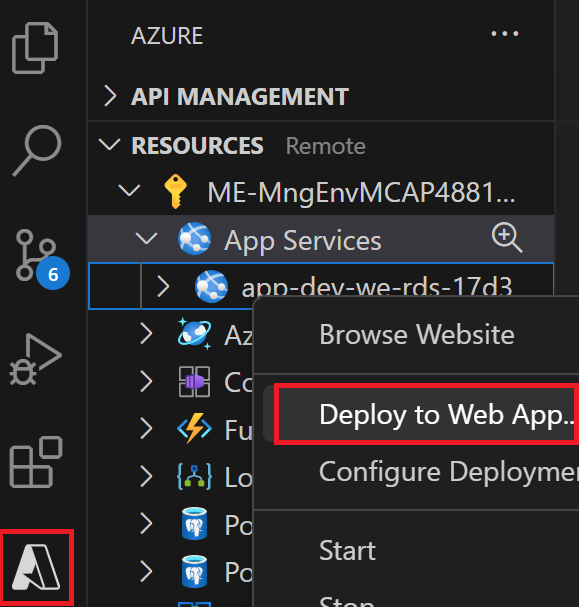
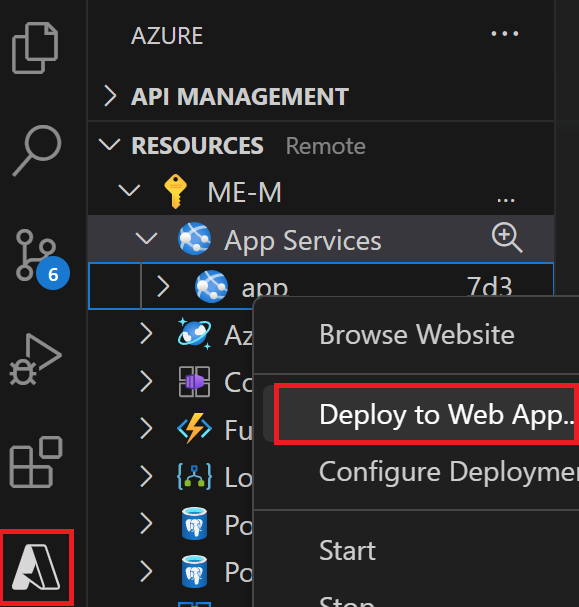
Docs : Azure Monitor / Governance + Proof Read
* docs : spell check

* Docs : TODOs fixed
+ Az Func History as vscode task

* Docs : updated benchmark

* Docs : CosmosDb -> Cosmos DB

* Docs : Cosmos DB -> Azure Cosmos DB

* Docs : api -> API

* Docs : obfuscating image

* docs : benchmark screenshot change

* docs : review Redis OSS and Azure Cache for Redis

* docs : benchmark during 5 minutes

Changed region(s): [[0.4663, 0.2965, 0.8705, 0.3558], [0.4974, 0.4448, 0.8083, 0.5041]]

diff --git a/docs/workshop.md b/docs/workshop.md
@@ -32,7 +32,7 @@ Before starting this workshop, be sure to have:
 - Create a [fork][Repo-fork] of the repository from the **main** branch to help you keep track of your changes
 - To run the different labs, you have 2 options: 
     - Use a devcontainer locally 
-    - Use a Github Codespace
+    - Use a GitHub Codespace
     
 ### Use your own local environment 
 
@@ -52,11 +52,14 @@ If you are not prompted by Visual Studio Code, you can open the command palette 
 
 <div class="tip" data-title="Tips">
 
-> To focus on the main purspose of the lab, we encourage the usage of devcontainers/codespace as they abstract the dev environment configuration, and avoid potential local dependencies conflict.
-> You could decide to run everything without relying on a devcontainer : To do so, make sure you install all the prerequisites you could find in the `.devcontainer` folder.  
+> To focus on the main purpose of the lab, we encourage the usage of devcontainers/codespace as they abstract the dev environment configuration, and avoid potential local dependencies conflict.
+> You could decide to run everything without relying on a devcontainer : To do so, make sure you install all the prerequisites you could find in the `.devcontainer` folder.
 </div>
 
 ### Using a pre-configured GitHub Codespace 
+
+To use a Github Codespace, you will need : 
+- [A GitHub Account][Github-account] (Free or Enterprise)
 
 Github Codespace offers the ability to run a complete dev environment (Visual Studio Code, Extensions, Tools, Secure port forwarding etc.) on a dedicated virtual machine. 
 The configuration for the environment is defined in the `.devcontainer` folder, making sure everyone gets to develop and practice on identical environments : No more conflict on dependencies or missing tools ! 
@@ -119,7 +122,7 @@ az provider register --namespace 'Microsoft.OperationalInsights'
 az provider register --namespace 'Microsoft.Cache'
 # API Management
 az provider register --namespace 'Microsoft.ApiManagement'
-# Azure CosmosDb 
+# Azure Cosmos DB  
 az provider register --namespace 'Microsoft.DocumentDB'
 ```
 
@@ -127,7 +130,7 @@ az provider register --namespace 'Microsoft.DocumentDB'
 
 <div class="task" data-title="Task">
 
-> You will find the instructions and expected configurations for each Lab step in these yellow "Task" boxes.
+> You will find the instructions and expected configurations for each Lab step in these yellow **Task** boxes.
 > Inputs and parameters to select will be defined, all the rest can remain as default as it has no impact on the scenario.
 
 </div>
@@ -174,7 +177,7 @@ While you are deploying the infrastructure of the labs, let's discover it togeth
 
 The architecture is composed of the following elements:
 - An Azure Static Web App that will be used to display the data from the API
-- An App Service that will host an API and store the data in a Cosmos DB database
+- An App Service that will host an API and store the data in a Azure Cosmos DB
 - An APIM which will be used as a facade for the APIs
 - An Azure Cache for Redis that will be used to cache the data of the API
 - A first Azure Function that will be triggered by an event of the Azure Cache for Redis to refresh the cache when the data expires
@@ -185,11 +188,11 @@ You will discover all these elements during this Hands On Lab.
 
 ## Seed the database
 
-In this Hands On Lab, you will use a Cosmos DB database to store and retrieve your data. To save time, you will seed it with some data.
+In this Hands On Lab, you will use a Azure Cosmos DB to store and retrieve your data. To save time, you will seed it with some data.
 
 To do this, download the [zip file][database-seed-zip] that contains the data to seed your database, then unzip it and you will find a `products.json` file.
 
-Go to your resource group, search the Cosmos DB account, select it and in the left menu, click on **Data Explorer**. Then on the database called `catalogdb` and click on the `products` container and select `Items` like below:
+Go to your resource group, search the Azure Cosmos DB account, select it and in the left menu, click on **Data Explorer**. Then on the database called `catalogdb` and click on the `products` container and select `Items` like below:
 
 ![Cosmos DB Data Explorer](./assets/cosmos-db-data-explorer.png)
 
@@ -249,7 +252,6 @@ It will allow you to:
 ## Redis basics 
 
 To be able to use Azure Cache for Redis, you need to understand the basics of Redis. Redis is an open source, in-memory data structure store, used as a database, cache, and message broker. It supports data structures such as strings, hashes, lists, sets, sorted sets with range queries, bitmaps, hyperloglogs, geospatial indexes with radius queries and streams.
-<!-- TODO: Add context on Redis OSS, Azure Cache for Redis, Azure Cache for Redis Enterprise -->
 
 <div class="tip" data-title="Tips">
 
@@ -259,7 +261,12 @@ To be able to use Azure Cache for Redis, you need to understand the basics of Re
 
 </div>
 
-<!-- TODO : Explain how to interact with Redis and how it works concretely -->
+These structures are available with any of the pricing tiers available for an Azure Cache for Redis:
+- **Basic**: An OSS Redis cache running on a single VM. This tier has no service-level agreement (SLA) and is ideal for development/test and noncritical workloads.
+- **Standard**: An OSS Redis cache running on two VMs in a replicated configuration.
+- **Premium**: High-performance OSS Redis caches. This tier offers higher throughput, lower latency, better availability, and more features. Premium caches are deployed on more powerful VMs compared to the VMs for Basic or Standard caches.
+- **Enterprise**: High-performance caches **powered by Redis Inc.’s Redis Enterprise software**. This tier supports Redis modules including RediSearch, RedisBloom, RedisJSON, and RedisTimeSeries. Also, it offers even higher availability than the Premium tier.
+- **Enterprise Flash**: Cost-effective large caches powered by Redis Inc.’s Redis Enterprise software. This tier extends Redis data storage to nonvolatile memory, which is cheaper than DRAM, on a VM. It reduces the overall per-GB memory cost.
 
 Let's see quickly how to interact with Azure Cache for Redis. Go to your resource group, search the Azure Cache for Redis resource, select it and in the left menu, click on **Overview** and click on the **Console** button:
 
@@ -331,8 +338,6 @@ To summarize, you can use the following basic commands to interact with Redis:
 
 In this lab, you will see how to use Azure Cache for Redis in your API to improve its performance. This API is an ASP.NET Web API written in .NET 7 and you will use the [StackExchange.Redis][stackexchange-redis] NuGet package to interact with Redis. One of the goal of this API is to provide a list of products that you will display in a web application.
 
-<!-- TODO: Check if more context is required -->
-
 <div class="tip" data-title="Tips">
 
 > Redis Cache has a set of different clients to connect to it. For your real world scenario, pick the client that fits your preferred development language as detailed [here][redis-dev-clients] : All of these are compatible with Azure Cache for Redis instances.
@@ -341,22 +346,28 @@ In this lab, you will see how to use Azure Cache for Redis in your API to improv
 
 ## Run the API
 
+<div class="info" data-title="Note">
+
+> This lab relies on two different data store systems : Azure Cosmos DB and Azure Cache for Redis. While Redis queries are faster than the ones sent to a Serverless Azure Cosmos DB instance (mainly thanks to the **In-Memory data storage**), the overall latency difference on end to end API call might not be so clearly noticeable.
+> In average, pure Azure Cache for Redis calls come back under 1 ms, while a Serverless Azure Cosmos DB Instance will respond in a few milliseconds.  
+>
+> Between the performance optimizations at a Serverless Azure Cosmos DB Instance doors, the scenario with a single user calling the API combined with such a small volume of `products` data persisted in Azure Cosmos DB, the end to end API response time discrepancy between Azure Cache for Redis and Cosmos DB  can be reduced.
+>
+> To clearly identify calls' response with or without cache, you'll add an artificial high latency while interacting with Azure Cosmos DB .
+> To do so, you'll find an environment variable in appsettings.json.template named `SIMULATED_DB_LATENCY_IN_SECONDS` that you'll have to fill in : The rest of the application code is ready to take this value into account.
+
+</div>
+
 Open the `src/catalog-api` folder in Visual Studio Code in your active devcontainer or GitHub Codespace.
 
-<!-- TODO : Remove this part and the delay if agreed ! -->
-
-For the purpose of this lab you will have to add a delay for the response of the API to be able to see the difference between the response time with and without the cache. This is because a database like Cosmos Db is able to return the data in a few milliseconds after a few calls so you won't be able to see the difference between the response time with and without the cache after a few retry.
-
-<!-- Check if remove-->
-
-For the moment, the API is only connecting to Azure CosmosDB to retrieve the products list persisted in the `products` container. To have this interaction with CosmosDb work, you will need to configure your catalog-api.
+For the moment, the API is only connecting to Azure Cosmos DB  to retrieve the products list persisted in the `products` container. To have this interaction with Azure Cosmos DB work, you will need to configure your catalog-api.
 
 The configuration file format is provided in `src/catalog-api/appsettings.json.template` and will need to be duplicated in a new file called `src/catalog-api/appsettings.Development.json`. 
 Once duplicated, you will need to fill in the missing values in this new file to configure the app.  
 
 <div class="task" data-title="Task">
 
-> - Set the Cosmos Db connection string in the `appsettings.Development.json` file
+> - Set the Azure Cosmos DBconnection string in the `appsettings.Development.json` file
 > - Set the Redis connection string in the `appsettings.Development.json` file (in preparation for the next lab)
 > - Set `SIMULATED_DB_LATENCY_IN_SECONDS` to `"1"`
 > - Run the API in your devcontainer or using the provided GitHub Codespace.
@@ -375,7 +386,7 @@ cd src/catalog-api
 cp appsettings.json.template appsettings.Development.json
 ``` 
 
-Inside the Azure Portal, go to your resource group, search for the Cosmos DB account, select it and in the left menu, click on **Keys**. Then copy the **Primary Connection String** and replace `"AZURE_COSMOSDB_CONNECTION_STRING"` value in `appsettings.Development.json` :
+Inside the Azure Portal, go to your resource group, search for the Azure Cosmos DBaccount, select it and in the left menu, click on **Keys**. Then copy the **Primary Connection String** and replace `"AZURE_COSMOSDB_CONNECTION_STRING"` value in `appsettings.Development.json` :
 
 ![Cosmos DB Keys](./assets/cosmos-db-keys.png)
 
@@ -383,8 +394,7 @@ Then inside the Azure Portal, go to your resource group, search the Azure Cache 
 
 ![Azure Cache for Redis Keys](./assets/azure-cache-for-redis-keys.png)
 
-<!-- TODO : Check formulation -->
-You can set `SIMULATED_DB_LATENCY_IN_SECONDS` to `"1"` to artificially represent a larger CosmosDB size
+You can set `SIMULATED_DB_LATENCY_IN_SECONDS` to `"1"` to create artificial latency to ease perception over cache/no cache data retrieval response time.
 
 You can now run debug for the catalog-api by selecting **Run and Debug** in the left menu, select `.Net Core Launch (web)` and click the green arrow : 
 
@@ -392,10 +402,10 @@ You can now run debug for the catalog-api by selecting **Run and Debug** in the 
 
 Depending on the environment you are using : 
 - Devcontainer : 
-    - Once the api is running, browse for the url: http://localhost:5076/products and you should see the list of products.
+    - Once the API is running, browse for the url: http://localhost:5076/products and you should see the list of products.
 - Github Codespace : 
-    - Once the api is running, click on the **ports** tab in the bottom part of Visual Studio Code window. You should retrieve the unique domain name generated for the combination of your codespace and the port being forwarded.
-    - Right click on port `5076` and click **Open in Browser**. <!-- TODO: Fix Codespace access issues -->
+    - Once the API is running, click on the **ports** tab in the bottom part of Visual Studio Code window.
+    - Right click on port `5076` and click **Open in Browser**.
     - You can now browse for http://<your-unique-domain-&-port>/products and you should see the list of products.
 
 </details>
@@ -415,7 +425,7 @@ They both use the `IRedisService` interface to interact with the cache and use t
 
 > These Get & Set Async methods have been built specifically for this lab to simplify exception handling and serialization as much as possible in your interaction with Azure Cache for Redis.
 > However, the actual Get and Set queries sent to the Redis Cache reside in the simple methods provided by the StackExchange.Redis package, and that you can see in the `RedisService.cs` class as the extract below : 
-
+> 
 > ```csharp
 > await _database.StringGetAsync(key);
 > ...
@@ -424,9 +434,9 @@ They both use the `IRedisService` interface to interact with the cache and use t
 
 </div>
 
-Now it is time to work with Azure Cache for Redis to retrieve and return the list of products provided by the persistence tier played by CosmosDb in this lab's scenario. 
+Now it is time to work with Azure Cache for Redis to retrieve and return the list of products provided by the persistence tier played by Azure Cosmos DB in this lab's scenario. 
 
-If no product exists in your Azure Cache for Redis Instance, then you will need to retrieve a fresh list of products from your persisting database (CosmosDb) and rehydrate the cache with this fresh data. 
+If no product exists in your Azure Cache for Redis Instance, then you will need to retrieve a fresh list of products from your persisting database (Azure Cosmos DB) and rehydrate the cache with this fresh data. 
 This way, the next call will extract the list of products directly from the cache, improving the overall request performance, as well as freeing up resources for the database to focus on actual data persistence activities.
 
 <div class="task" data-title="Tasks">
@@ -450,7 +460,7 @@ if (cachedProducts != null) {
 }
 ```
 
-If no product is found in the cache, fetch the data from Cosmos DB and store them in the cache before returning them:
+If no product is found in the cache, fetch the data from Azure Cosmos DBand store them in the cache before returning them:
 
 ```csharp
 // Fetch data from Cosmos DB
@@ -495,13 +505,13 @@ Thanks Redis! ;)
 
 Now that you have your API working locally, you will deploy it to Azure. To do this, you will use the Azure App Service provided by the Terraform infrastructure as code applied earlier. This service allows you to host your API in the cloud.
 
-To deploy your API directly from Visual Studio Code, you will use the Visual Studio Code Azure extension.
+To deploy your API directly from Visual Studio Code, you will use the Visual Studio Code Azure extension panel.
 
-Search your App Service in the Visual Studio Code Azure extension and click on the **Deploy to Web App...** button:
+Right click on your App Service in the Visual Studio Code Azure extension panel and select **Deploy to Web App...** :
 
 ![Deploy to Web App](./assets/app-service-deploy-to-web-app.png)
 
-Then, select the `catalog-api` folder and click on the **Deploy** button. Wait a few minutes for the deployment to finish. All the environment variables such as the connection string to Azure Cache for Redis and Cosmos Db was already configured in the Azure App Service for you by the infrastructure as code.
+Then, select the `catalog-api` folder and click on the **Deploy** button. Wait a few minutes for the deployment to finish. All the environment variables such as the connection string to Azure Cache for Redis and Azure Cosmos DBwas already configured in the Azure App Service for you by the infrastructure as code.
 
 When it's done go to your App Service resource on Azure and click on the **Browse** button. Navigate to the `/products` endpoint and you should see the list of products:
 
@@ -540,7 +550,6 @@ Now click on the **Browse** button in the **Overview** of your static web app to
 
 
 [redis-dev-clients]: https://redis.io/docs/clients/
-[api-zip]: https://github.com/microsoft/hands-on-lab-redis/releases/download/latest/catalog-api.zip
 [stackexchange-redis]: https://www.nuget.org/packages/StackExchange.Redis
 
 ---
@@ -902,13 +911,13 @@ To set the `CATALOG_API_URL` environment variable, go to your resource group, se
 ![Apim gateway url](./assets/apim-gateway-url.png)
 
 To debug the Cache Refresh Azure Function in VS Code, you will need to start Azurite (an Azure Storage Account emulator required to debug Azure Functions locally) :  
-1. In VS Code, Press `Ctrl + Shift + P`, then search `Azurite: Start` and select this option : 
+- In VS Code, Press `Ctrl + Shift + P`, then search `Azurite: Start` and select this option : 
 
-![Azurite Start](./assets/azurite-start.png)
+    ![Azurite Start](./assets/azurite-start.png)
 
-1. Then run the Azure Function by clicking on the **Run and Debug** panel and select `Attach to Cache Refresh Function`:
+- Then run the Azure Function by clicking on the **Run and Debug** panel and select `Attach to Cache Refresh Function`:
 
-![Azure Function run](./assets/azure-function-run.png)
+    ![Azure Function run](./assets/azure-function-run.png)
 
 </details>
 
@@ -964,8 +973,8 @@ To do this, there is a variety of tools that you can use to inspect Redis data l
 
 <div class="task" data-title="Task">
 
->  - View some products in the Web App to generate items in the stream. You can alternatively call the `/products/:id` endpoint from `catalog-api` like you did in Lab1.
->  - Locate the stream where `catalog-api` publishes product viewing events. Your hint is the name of the stream.
+>  - View some products in the Web App to generate items in the stream. You can alternatively call the `/products/:id` endpoint from `catalog-api` like you did in Lab 1.
+>  - Locate the stream where `catalog-api` publishes product viewing events, named `productViews`.
 >  - Inspect the items in the Stream using `Redis Console` from the Azure portal.
 >  - View more products in the Web App and make sure new items get added in the stream.
 
@@ -1163,7 +1172,7 @@ func azure functionapp publish <NAME_OF_YOUR_HISTORY_FUNCTION_APP>
 
 In this last part, you will wire the newly deployed `history-func` app to the Web App using the app setting `HISTORY_API`.
 
-This will allow the Web App to communicate with your new History API (`/api/history`) to retrieve and display the current user's browsing history.
+This will allow the Web App to communicate with your new History api (`/api/history`) to retrieve and display the current user's browsing history.
 
 ![View recent browsing history](./assets/webapp-view-browsing-history.png)
 
@@ -1179,7 +1188,7 @@ This will allow the Web App to communicate with your new History API (`/api/hist
 
 To configure the Static Web App to use the new `/api/history` endpoint you will first need to get its full url.
 
-To do that, first head to the `history-func` Function App in the Azure Portal, then select the function `GetBrowsingHistory`.
+To do that, head to the `history-func` Function App in the Azure Portal, then select the function `GetBrowsingHistory`.
 
 ![GetBrowsingHistory in history-func](./assets/history-func-select-http-function.png)
 
@@ -1217,27 +1226,27 @@ Once it gets loaded, click on the UUID of the user on the top right of the page 
 
 # Lab 4 : Azure Cache for Redis Governance 
 
-In this lab you will discover how to retreive metrics and logs from Azure Cache for Redis to monitor the health of the resource and take informed decisions about its sizing.
+In this lab you will discover how to retrieve metrics and logs from Azure Cache for Redis to monitor the health of your instance and take informed decisions about its sizing.
 
 ## Azure Monitor 
 
-To simulate a real world scenario, the first thing to do is to generate some load on the Azure Cache for Redis resource. To be able to do this, you will use the [Redis-Benchmark][redis-benchmark] tool installed in the devcontainer.
+To simulate a real world scenario, the first thing to do is to generate some load on the Azure Cache for Redis resource. To be able to do this, you will use the [RedisLabs/memtier_benchmark][redis-benchmark] tool as a docker image (Docker is already set up in the devcontainer/codespace).
 
-Redis Benchmark is a simple command-line utility designed to simulate running a certain number of queries from a defined set of parallel clients. 
+RedisLabs Memtier_benchmark is a command-line utility designed to load test based on a default or custom load scenario. 
 
-To authenticate to your Azure Cache for Redis resource you will need an access key. Go to the Azure Portal and inside the Azure Cache for Redis resource in the left menu, click on **Access keys** and copy the `Primary` or `Secondary` key. 
+To authenticate to your Azure Cache for Redis resource you will need one of the access keys. Go to the your Azure Cache for Redis resource and select the **Access Keys** panel, then copy the  `Primary` or `Secondary` key. 
 
 Next, to generate some load on the Azure Cache for Redis resource use the following command : 
 
 ```bash
-redis-benchmark -h <YOUR_REDIS_RESOURCE_NAME>.redis.cache.windows.net -p 6379 -a <YOUR REDIS_ACCESS_KEY> -t GET -n 10000000 -d 1024 -c 300 --threads 2 
+docker run --rm redislabs/memtier_benchmark:latest -h <YOUR_REDIS_RESOURCE_NAME>.redis.cache.windows.net -p 6380 -a <YOUR_REDIS_ACCESS_KEY> --tls --tls-skip-verify
 ```
 
-Redis Benchmark will send 10 million `SET` queries of 1KB each from 300 parallel connections. In this lab's use case, the duration of the operation will mainly be influenced by the codespace/dev environment CPU, RAM and network bandwidth resources.
+Redis Benchmark will send a few million queries (SET and GET) each from various parallel client connections. In this lab's use case, the duration of the operation will mainly be influenced by the codespace/dev environment CPU, RAM and network bandwidth resources.
 
-When the benchmark is done, you should see this kind of results :
+When the benchmark is done, you should see the following results table (latency will depend on the benchmark's source location):
 
-![Redi-Benchmark-results](./assets/redis-benchmark-results.png)
+![Redis-Benchmark-results](./assets/redis-benchmark-results.png)
 
 About 5 minutes after the benchmark has successfully ended, open the Azure Portal view on your Azure Cache for Redis resource and open the **Insights** panel to gain deeper knowledge of the resource health : 
 
@@ -1253,7 +1262,7 @@ The Azure Cache for Redis Enterprise SKU also comes with `autoscaling` capabilit
 
 Currently, only the Enterprise SKU support the `autoscaling` feature. However, you can do it manually using the `Premium` SKU, enabling the `cluster` option and taking advantage of Azure Monitor Alerts to respond to increasing usage trends and trigger additional node and shard provisionning. 
 
-## Usage Trend monitoring
+## Usage trend monitoring
 
 Let's create an [alert rule][alert-rule-creation] with Azure Monitor to send an email notification when the CPU average usage of the Azure Cache for Redis resource is above `30%` for more than `1` minute. When the alert is triggered, you will send an email to notify the Ops team that the usage trend on Redis increased.
 
@@ -1261,10 +1270,10 @@ In a real world scenario this alert could be coupled with a request to increase 
 
 <div class="task" data-title="Task">
 
-> - Create a `static alert rule` to trigger when CPU reaches `30%` on `average` during `1` minute
+> - Create a `static alert rule` to trigger when CPU reaches `30%` on `average` for the past `1` minute
 > - Create an [`action group`][action-group-creation] that will be executed by this alert rule 
 > - The `action group` must send an `email` notification to your email address 
-> - Execute a new benchmark of `10 Million` requests to load the Azure Cache for Redis CPU and trigger the alert
+> - Execute the memtier_benchmark utility during `5 minutes` to load the Azure Cache for Redis CPU and trigger the alert
 
 </div>
 
@@ -1299,12 +1308,12 @@ Now is time to finalize the configuration of the alert rule: Giving it a `resour
 
 ![monitor-alert-details](./assets/monitor-alert-details.png)
 
-Now the alert is created, you can test it by generating some load on the Azure Cache for Redis resource using the [Redis-Benchmark][redis-benchmark] tool like you did before.
+Now the alert is created, you can test it by generating some load on the Azure Cache for Redis resource using the [RedisLabs/memtier_benchmark][redis-benchmark] tool like you did before.
 
-Run the same **redis-benchmark** command from your devcontainer/copdespace terminal as earlier :
+Run the same **redis-benchmark** command from your devcontainer/copdespace terminal as earlier, for a 5 minutes benchmark duration :
 
 ```bash
-redis-benchmark -h <YOUR_REDIS_RESOURCE_NAME>.redis.cache.windows.net -p 6379 -a <YOUR REDIS_ACCESS_KEY> -t GET -n 10000000 -d 1024 -c 300 --threads 2 
+docker run --rm redislabs/memtier_benchmark:latest -h <YOUR_REDIS_RESOURCE_NAME>.redis.cache.windows.net -p 6380 -a <YOUR_REDIS_ACCESS_KEY> --test-time=300 --tls --tls-skip-verify 
 ```
 
 After a few minutes, a notification like the following should be sent to your email address :
@@ -1325,7 +1334,7 @@ As a side note, we really encourage you to take the time to dig in the toolbox o
 
 [alert-rule-creation]: https://learn.microsoft.com/en-us/azure/azure-monitor/alerts/alerts-create-new-alert-rule?tabs=metric 
 [action-group-creation]: https://learn.microsoft.com/en-us/azure/azure-monitor/alerts/action-groups#create-an-action-group-in-the-azure-portal 
-[redis-benchmark]: (https://redis.io/docs/management/optimization/benchmarks/)
+[redis-benchmark]: (https://github.com/RedisLabs/memtier_benchmark)
 [redis-dev-wrapper]: https://github.com/Azure/Microsoft.Azure.StackExchangeRedis/
 
 ---
